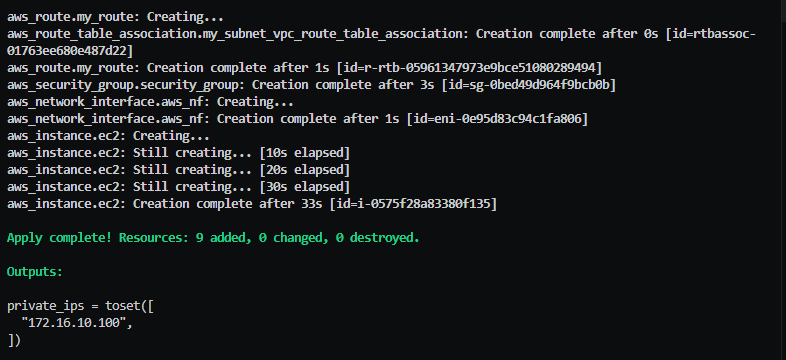
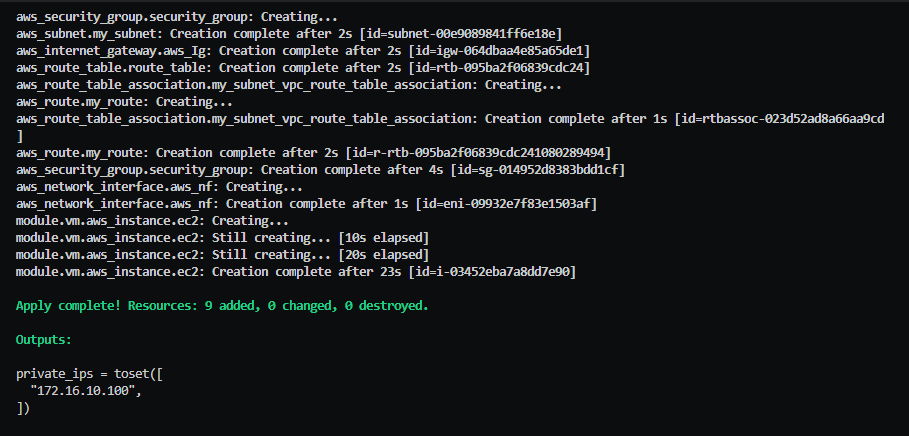
feat: added new module for the VM

Changed region(s): [[0.0, 0.0306, 0.9771, 0.7944], [0.0, 0.825, 0.1832, 0.9167], [0.0, 0.9167, 0.0305, 0.9778]]

diff --git a/Readme.md b/Readme.md
@@ -1,5 +1,5 @@
-# EC2 aws with terraform 
-In this repo you will see how to deploy an EC2 instance with a subnet using terraform. <br>
+# EC2 aws with terraform  using modules
+In this repo you will see how to deploy an EC2 instance  set in a new module with a subnet using terraform. <br>
 
 ## Configuration 👓
 
@@ -246,21 +246,53 @@ This Terraform code creates a route in the specified route table (`aws_route_tab
 ```
 
 ## 10.  Create your instance with your configuration
+First you need to create a new folder called modules and inside of it create a new folder called vm, then create a new file called main.tf and paste the following code:
+
+*Variables that provide de configuraton for the VM:*
+
+*/modules/vm/variables.tf*
  ```bash
-resource "aws_instance" "ec2" {
-  ami           = data.aws_ami.ubuntu.id #Get the AMI ID
-  instance_type = "t2.micro" #Set the instance type
-  #Assign the network interface
-  network_interface {
-    network_interface_id = aws_network_interface.aws_nf.id
-    device_index         = 0
+  variable "ami" {
+    type        = string
+    description = "The ami ID to use for the instance"
   }
 
+  variable "instance_type" {
+    type        = string
+    description = "The type of instance to start"
+  }
 
+  variable "network_interface_id" {
+    type        = string
+    description = "The ID of the network interface to attach to the instance"
+  }
+ ```
+Define the resource for the VM:
+
+*/modules/vm/main.tf*
+```bash
+resource "aws_instance" "ec2" {
+  ami           = var.ami #Get the AMI ID
+  instance_type = "${var.instance_type}"#"t2.micro" #Set the instance type
+  #Assign the network interface
+  network_interface {
+    network_interface_id = var.network_interface_id #aws_network_interface.aws_nf.id
+    device_index         = 0
+  }
   #Tags
   tags = {
     Name = "ec2-VM"
   }
+}
+```
+
+Call the module in your main tf file and provide the values for the variables:
+```bash
+module "vm"{
+  source = "./modules/vm"
+  ami = data.aws_ami.ubuntu.id
+  instance_type = "${var.instance_type}"
+  network_interface_id = aws_network_interface.aws_nf.id
 }
 ```
 Here you will define an AWS EC2 instance resource using the AWS provider. It provisions a virtual machine (EC2 instance) with specific configurations.
